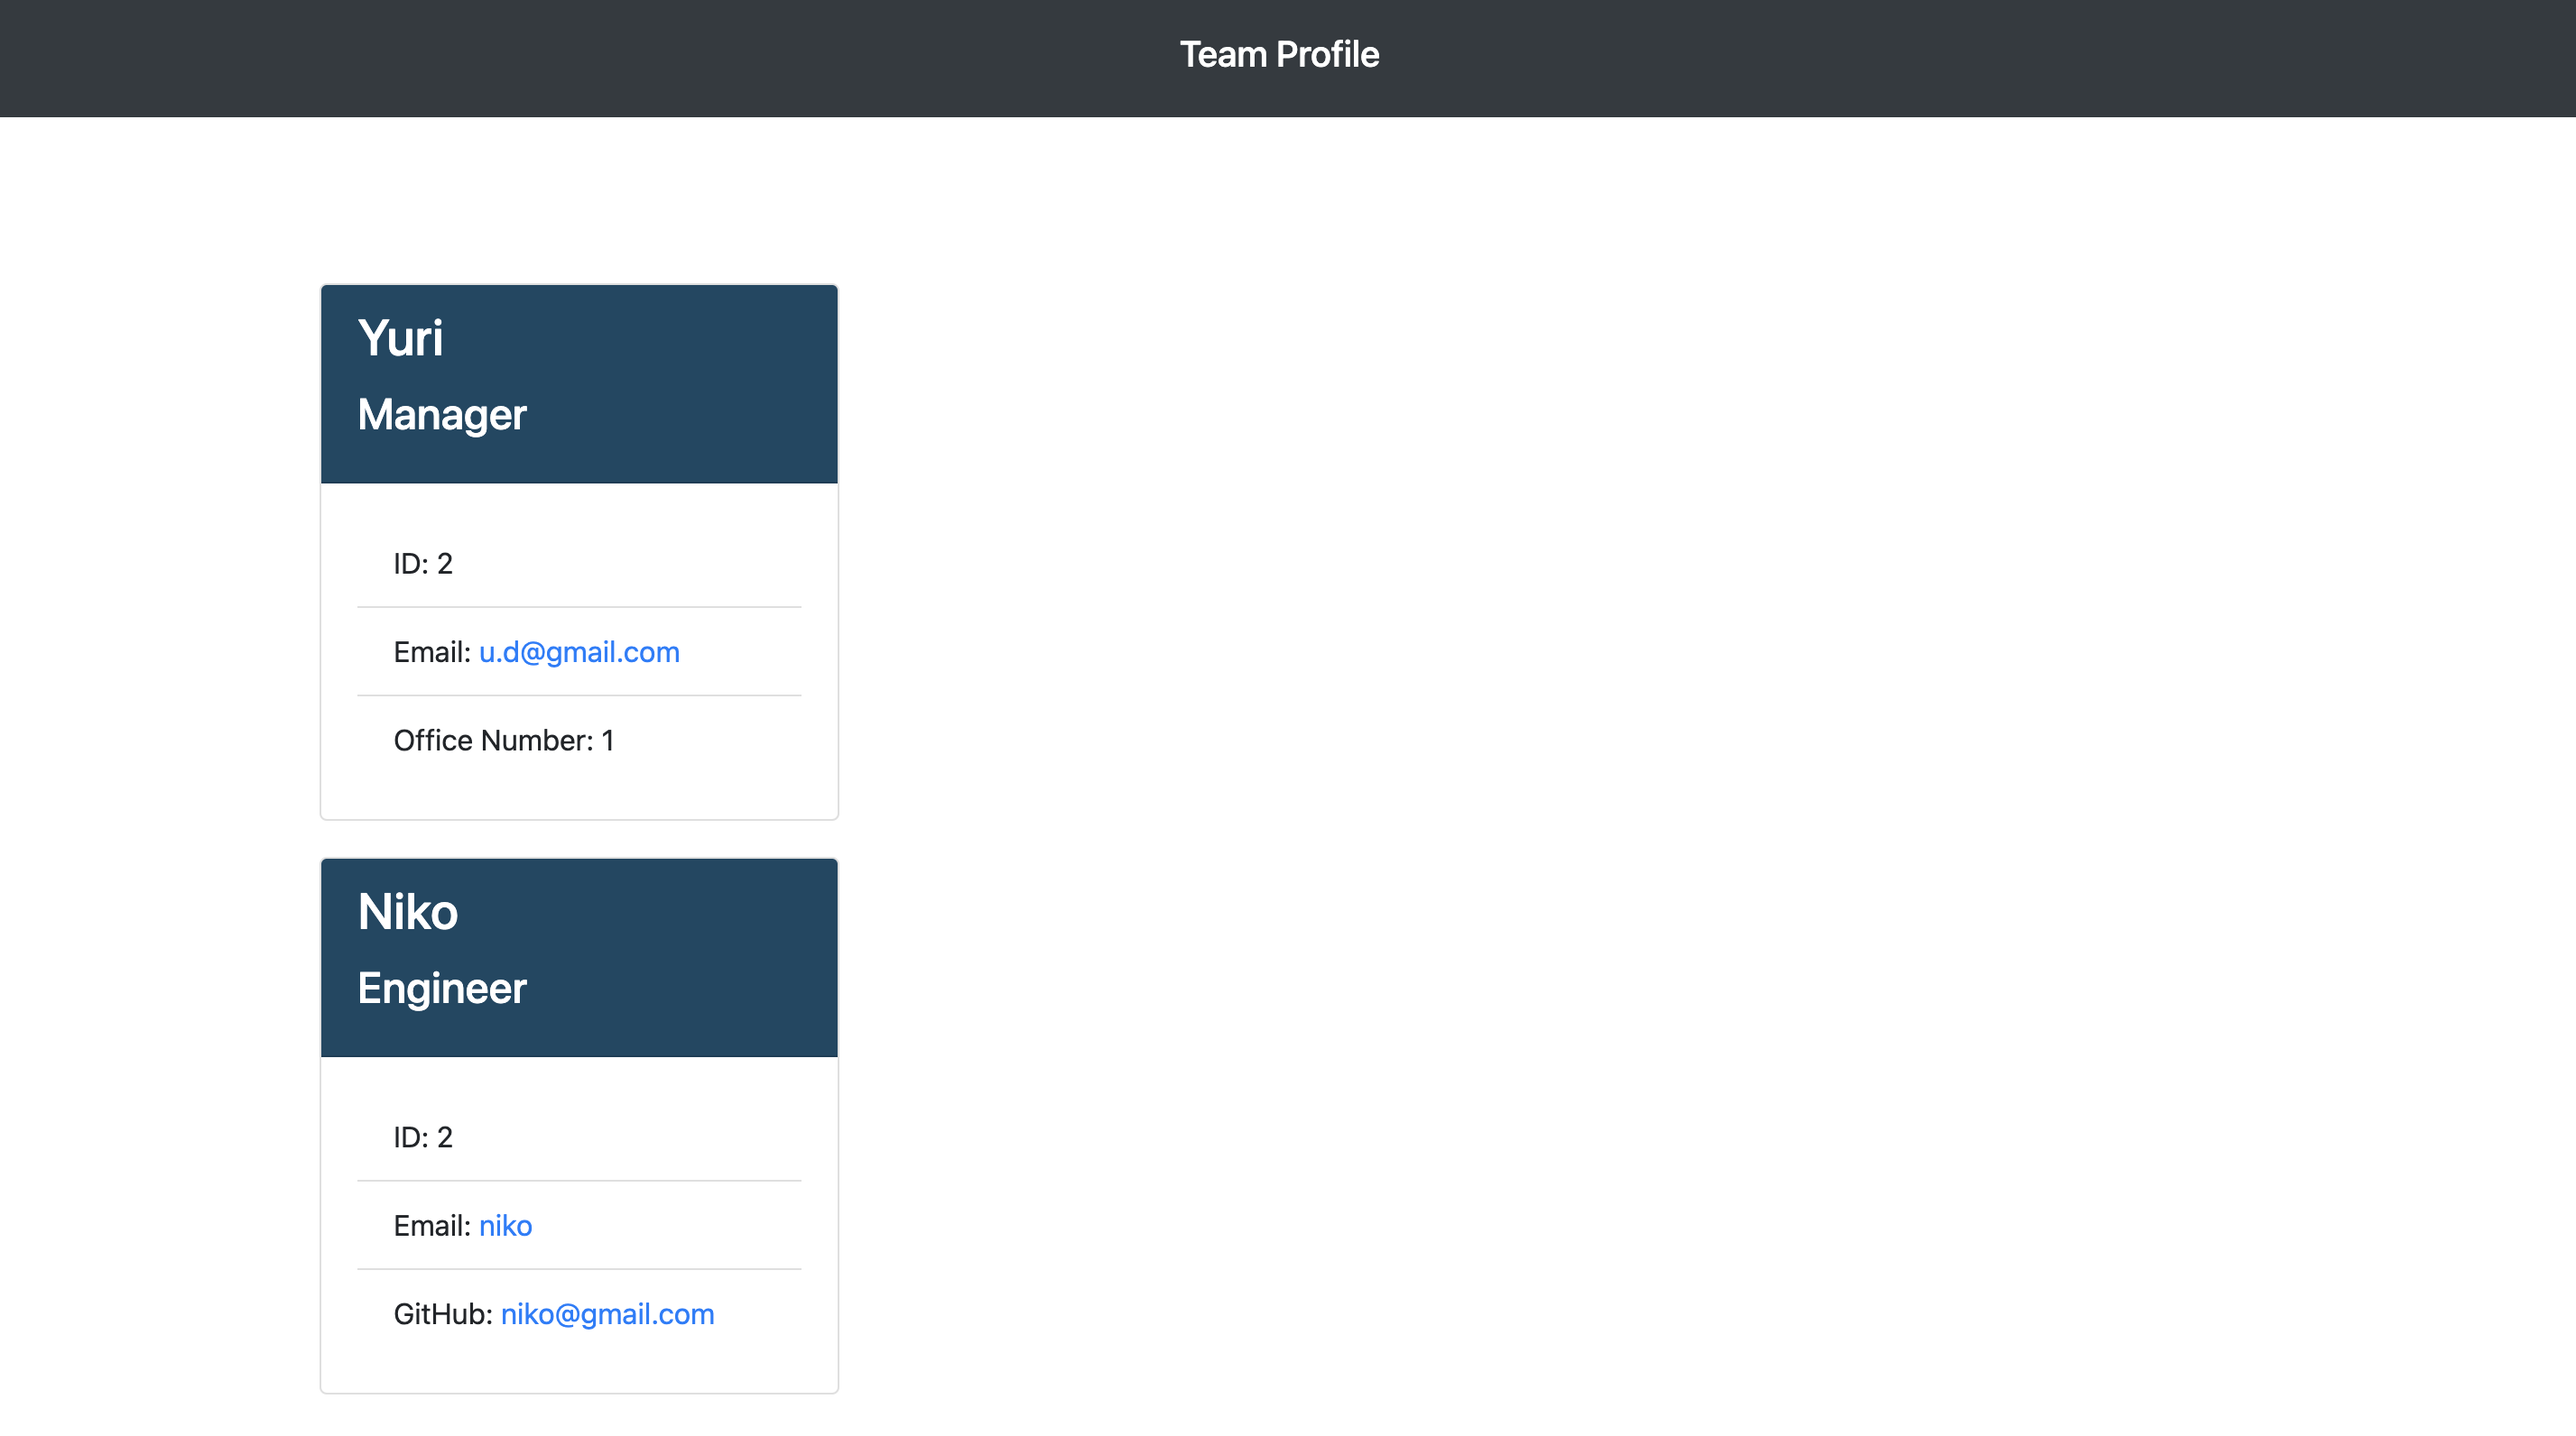
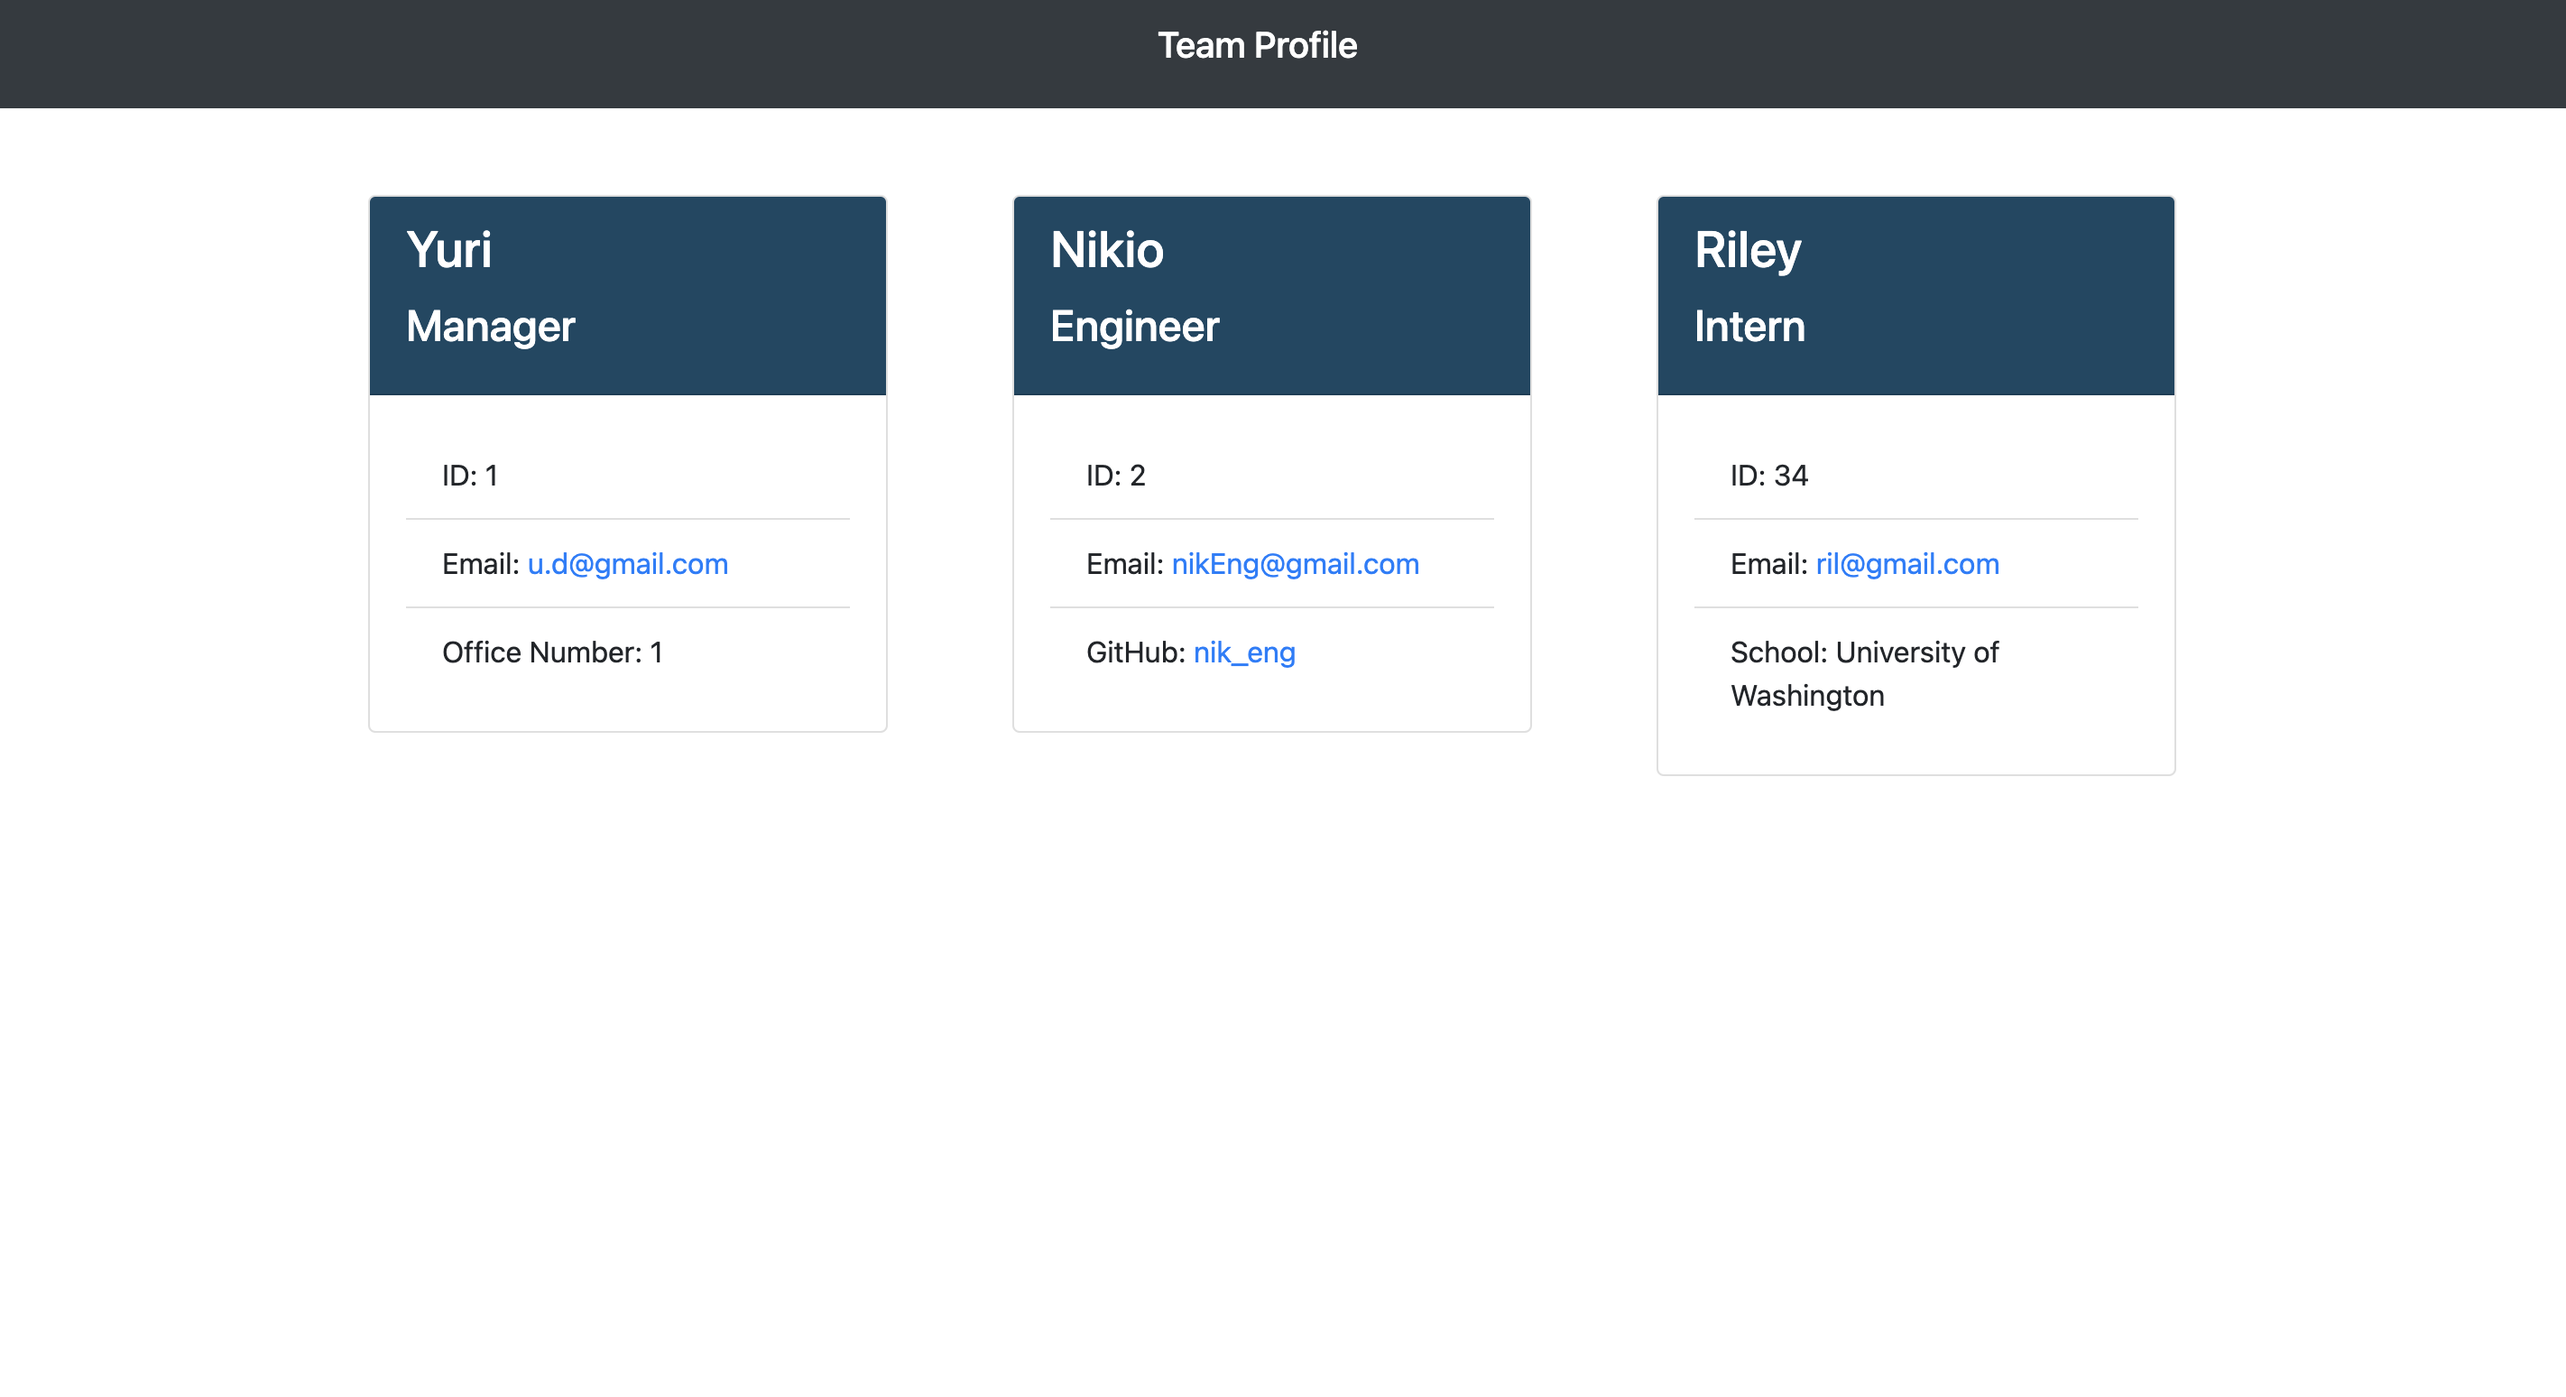
updated files, to make the css look better, then updated readme with the info

diff --git a/dist/index.html b/dist/index.html
@@ -24,7 +24,7 @@
         <main class="container">
             <div class="row employeeCard" id="employeeSect">
                 
-        <div class="col-4">
+        <div class="cols m6 l4">
         <div class="card employeeCards">
             <div class="card-header">
                 <h3 class="card-title">Yuri</h3>
@@ -33,24 +33,40 @@
 
             <div class="card-body">
                 <ul class="list-group list-group-flush">
-                    <li class="list-group-item">ID: 2</li>
+                    <li class="list-group-item">ID: 1</li>
                     <li class="list-group-item">Email: <a href="mailto:u.d@gmail.com">u.d@gmail.com</a></li><li class="list-group-item">Office Number: 1</li>
             </ul>
         </div>
         </div>
         </div>
         
-        <div class="col-4">
+        <div class="cols m6 l4">
         <div class="card employeeCards">
             <div class="card-header">
-                <h3 class="card-title">Niko</h3>
+                <h3 class="card-title">Nikio</h3>
                 <h4 class="card-title">Engineer</h4>
             </div>
 
             <div class="card-body">
                 <ul class="list-group list-group-flush">
                     <li class="list-group-item">ID: 2</li>
-                    <li class="list-group-item">Email: <a href="mailto:niko">niko</a></li><li class="list-group-item">GitHub: <a href="https://github.com/niko@gmail.com">niko@gmail.com</a></li>
+                    <li class="list-group-item">Email: <a href="mailto:nikEng@gmail.com">nikEng@gmail.com</a></li><li class="list-group-item">GitHub: <a href="https://github.com/nik_eng">nik_eng</a></li>
+            </ul>
+        </div>
+        </div>
+        </div>
+        
+        <div class="cols m6 l4">
+        <div class="card employeeCards">
+            <div class="card-header">
+                <h3 class="card-title">Riley</h3>
+                <h4 class="card-title">Intern</h4>
+            </div>
+
+            <div class="card-body">
+                <ul class="list-group list-group-flush">
+                    <li class="list-group-item">ID: 34</li>
+                    <li class="list-group-item">Email: <a href="mailto:ril@gmail.com">ril@gmail.com</a></li><li class="list-group-item">School: University of Washington</li>
             </ul>
         </div>
         </div>

diff --git a/lib/renderHTML.js b/lib/renderHTML.js
@@ -5,7 +5,7 @@ const renderHTML = (teamArr) => {
     let renderedHTML = '';
     teamArr.forEach(element => {
         let data = `
-        <div class="col-4">
+        <div class="cols m6 l4">
         <div class="card employeeCards">
             <div class="card-header">
                 <h3 class="card-title">${element.name}</h3>
@@ -88,13 +88,11 @@ const cssTemplate = `
     padding: 15px;
 }
 .employeeCard {
-    display: inline;
     justify-content: space-evenly;
 }
 .employeeCards {
     background-color: white;
     width: 18rem;
-    margin-top: 20px;
 }
 .card-title {
     color: white;

diff --git a/lib/engineer.js b/lib/engineer.js
@@ -1,7 +1,7 @@
 const Employee = require("./employee");
 
 class Engineer extends Employee {
-    constructor (name, id, email, github, role) {
+    constructor (name, id, github, email, role) {
         super(name, id, email, role);
         this.github = github;
     }

diff --git a/dist/style.css b/dist/style.css
@@ -3,13 +3,11 @@
     padding: 15px;
 }
 .employeeCard {
-    display: inline;
     justify-content: space-evenly;
 }
 .employeeCards {
     background-color: white;
     width: 18rem;
-    margin-top: 20px;
 }
 .card-title {
     color: white;
